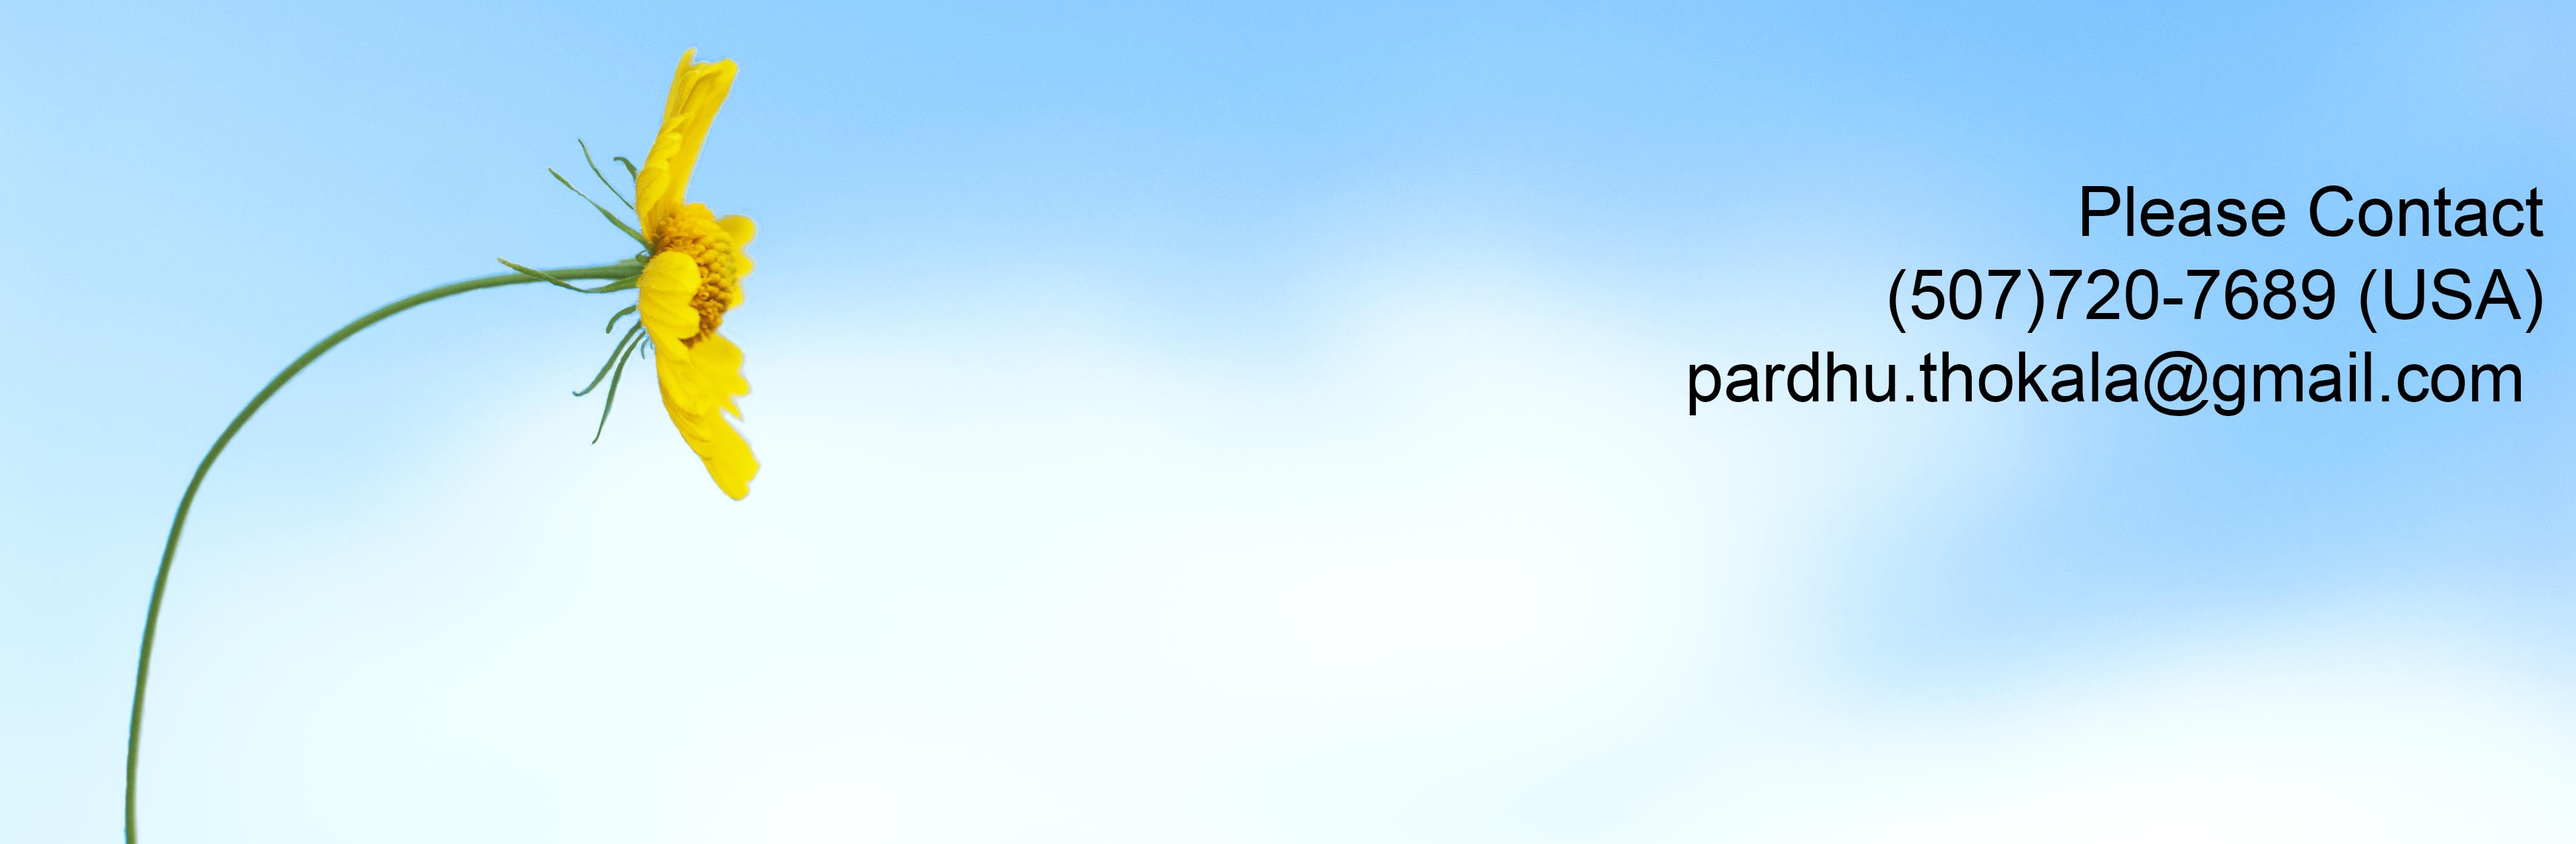
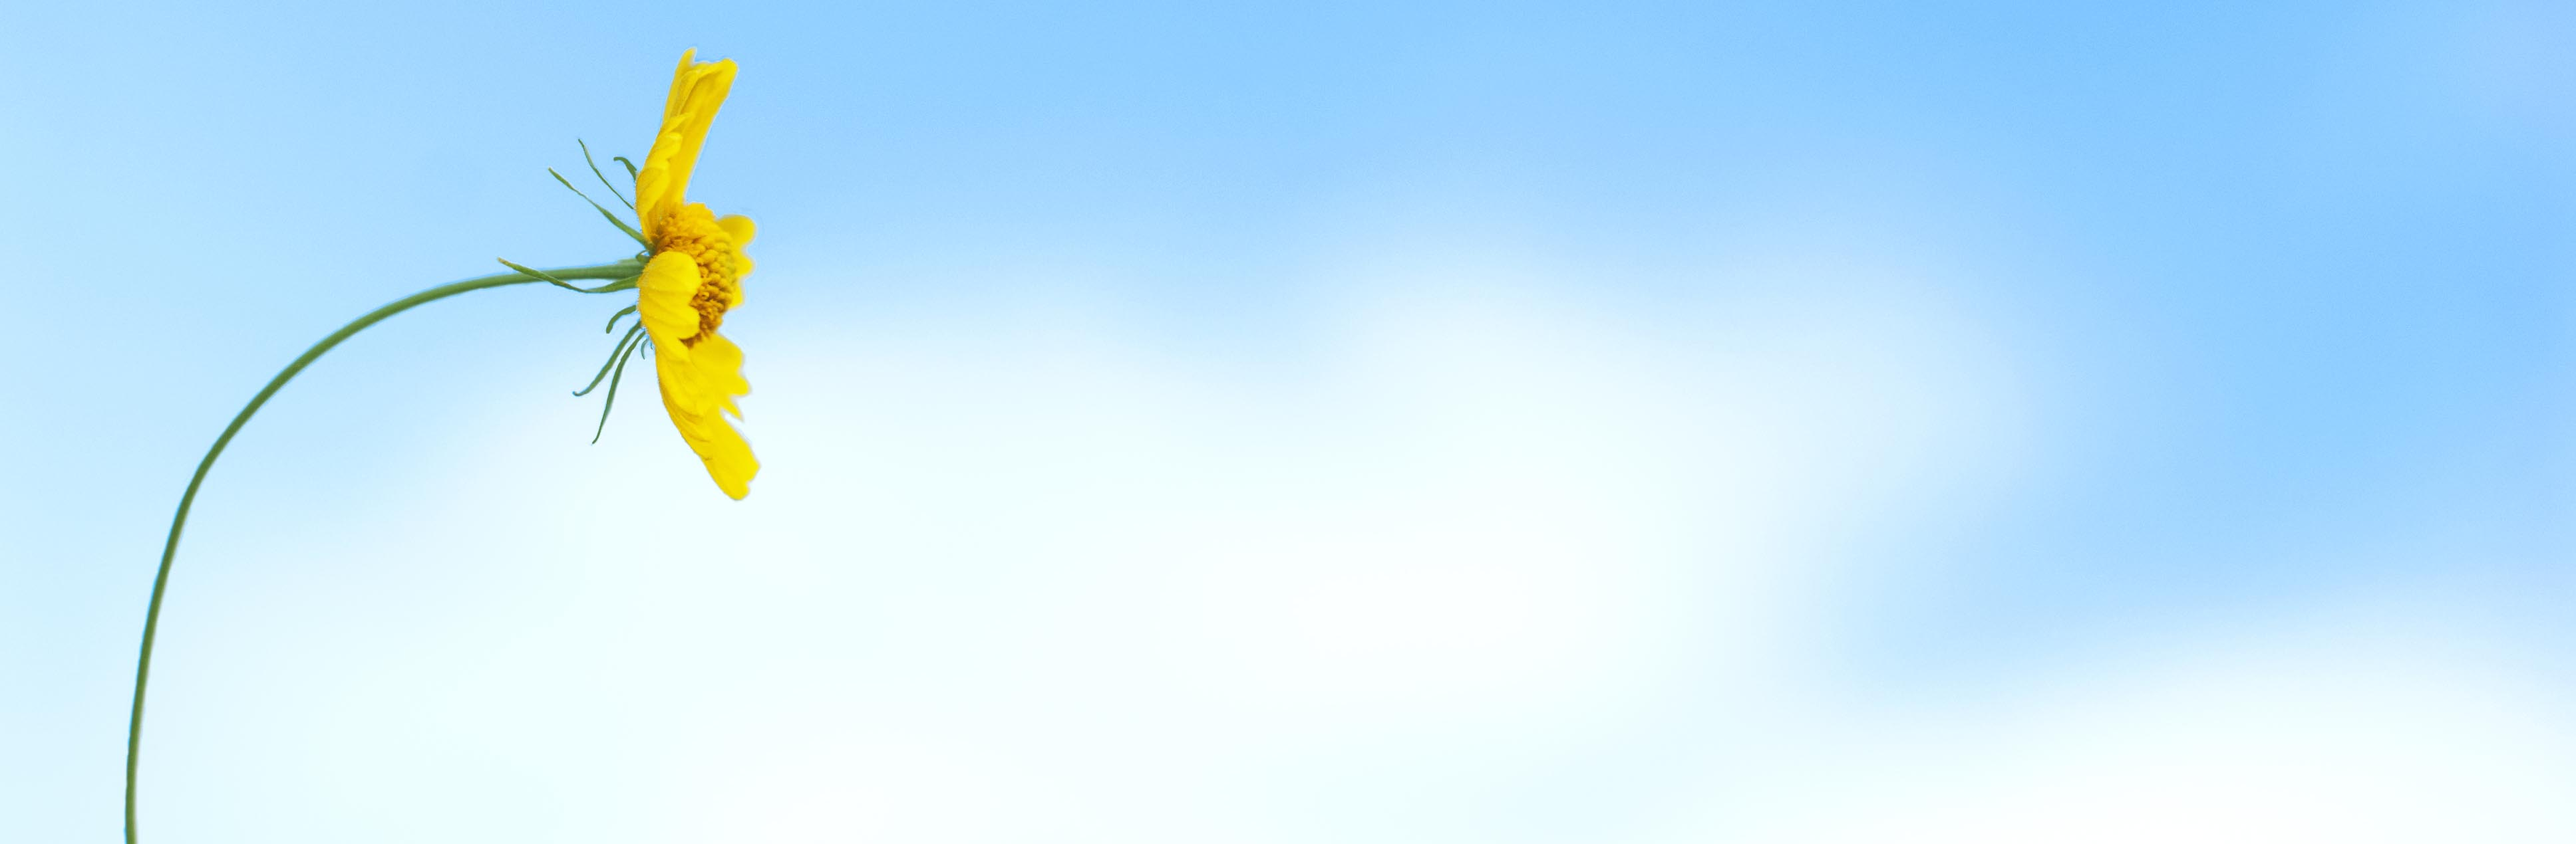
changed contact info page to include text for email and phone

Changed region(s): [[0.7188, 0.3071, 1.0, 0.3992], [0.6562, 0.4299, 1.0, 0.4913], [0.8125, 0.215, 1.0, 0.2764]]

diff --git a/styles/tpsarts.css b/styles/tpsarts.css
@@ -1,24 +1,5 @@
 
-@media (min-width: 768px){
-    .navbar {
-         border-radius: 0px !important;
-    }
-}
-@media (min-width: 1200px){
-    .container {
-        width: 1000px !important;
-    }
-}
-@media (min-width: 992px){
-    .container {
-        width: 970px;
-    }
-}
-@media (min-width: 768px){
-    .container {
-        width: 750px;
-    }
-}
+
 .tpsarts-logo{
     height: 40px;
     position: relative;
@@ -112,4 +93,52 @@ body{
 }
 .gallary-table td img{
     width:100%;
+}
+.tps-contact-container{
+    position:relative;
+}
+.tps-contact-info{
+    text-align: right;
+    position: absolute;
+    width: 98%;
+    font-size: 2em;
+    top: 90px;
+}
+@media (min-width: 768px){
+    .navbar {
+        border-radius: 0px !important;
+    }
+}
+@media (min-width: 1200px){
+    .container {
+        width: 1000px !important;
+    }
+}
+@media (min-width: 992px){
+    .container {
+        width: 970px;
+    }
+}
+@media (min-width: 768px){
+    .container {
+        width: 750px;
+    }
+}
+@media (max-width: 1024px){
+    .tps-contact-info{
+        text-align: right;
+        position: absolute;
+        width: 98%;
+        font-size: 1.5em;
+        top: 50px;
+    }
+}
+@media (max-width:760px){
+    .tps-contact-info{
+        text-align: right;
+        position: absolute;
+        width: 98%;
+        font-size: 1em;
+        top: 0px;
+    }
 }

diff --git a/contact.html b/contact.html
@@ -9,8 +9,6 @@
 
     <link href='http://fonts.googleapis.com/css?family=Open+Sans:400italic,400,300,600,700' rel='stylesheet' type='text/css'>
     <link rel="stylesheet" type="text/css" href="https://maxcdn.bootstrapcdn.com/bootstrap/3.3.6/css/bootstrap.min.css">
-    <link rel="stylesheet" type="text/css" href="styles/owl.carousel.css" >
-    <link rel="stylesheet" type="text/css" href="styles/owl.theme.css" >
     <link rel="stylesheet" type="text/css" href="styles/tpsarts.css">
 
     <script src="https://ajax.googleapis.com/ajax/libs/jquery/2.2.4/jquery.min.js"></script>
@@ -60,7 +58,12 @@
 
             <div class="tpsarts-fb-button-like fb-like" data-href="https://www.facebook.com/PardhuThokala/" data-width="100" data-layout="button_count" data-action="like" data-size="small" data-show-faces="true" data-share="true"></div>
         </div>
-        <div class="">
+        <div class="tps-contact-container">
+            <div class="tps-contact-info">
+                <div>Please Contact</div>
+                <div>(507) 720-7689 (USA)</div>
+                <div>pardhu.thokala@gmail.com</div>
+            </div>
             <img class="contact-img" src="images/tpsarts_contact.jpg">
         </div>
         <div class="footer">

diff --git a/portraiture.html b/portraiture.html
@@ -13,7 +13,6 @@
 
     <script src="https://ajax.googleapis.com/ajax/libs/jquery/2.2.4/jquery.min.js"></script>
     <script src="https://maxcdn.bootstrapcdn.com/bootstrap/3.3.6/js/bootstrap.min.js"></script>
-    <script src="scripts/tpsartsGallery.js"></script>
     <script src="scripts/tpsartsPortraiture.js"></script>
 </head>
 <body>
